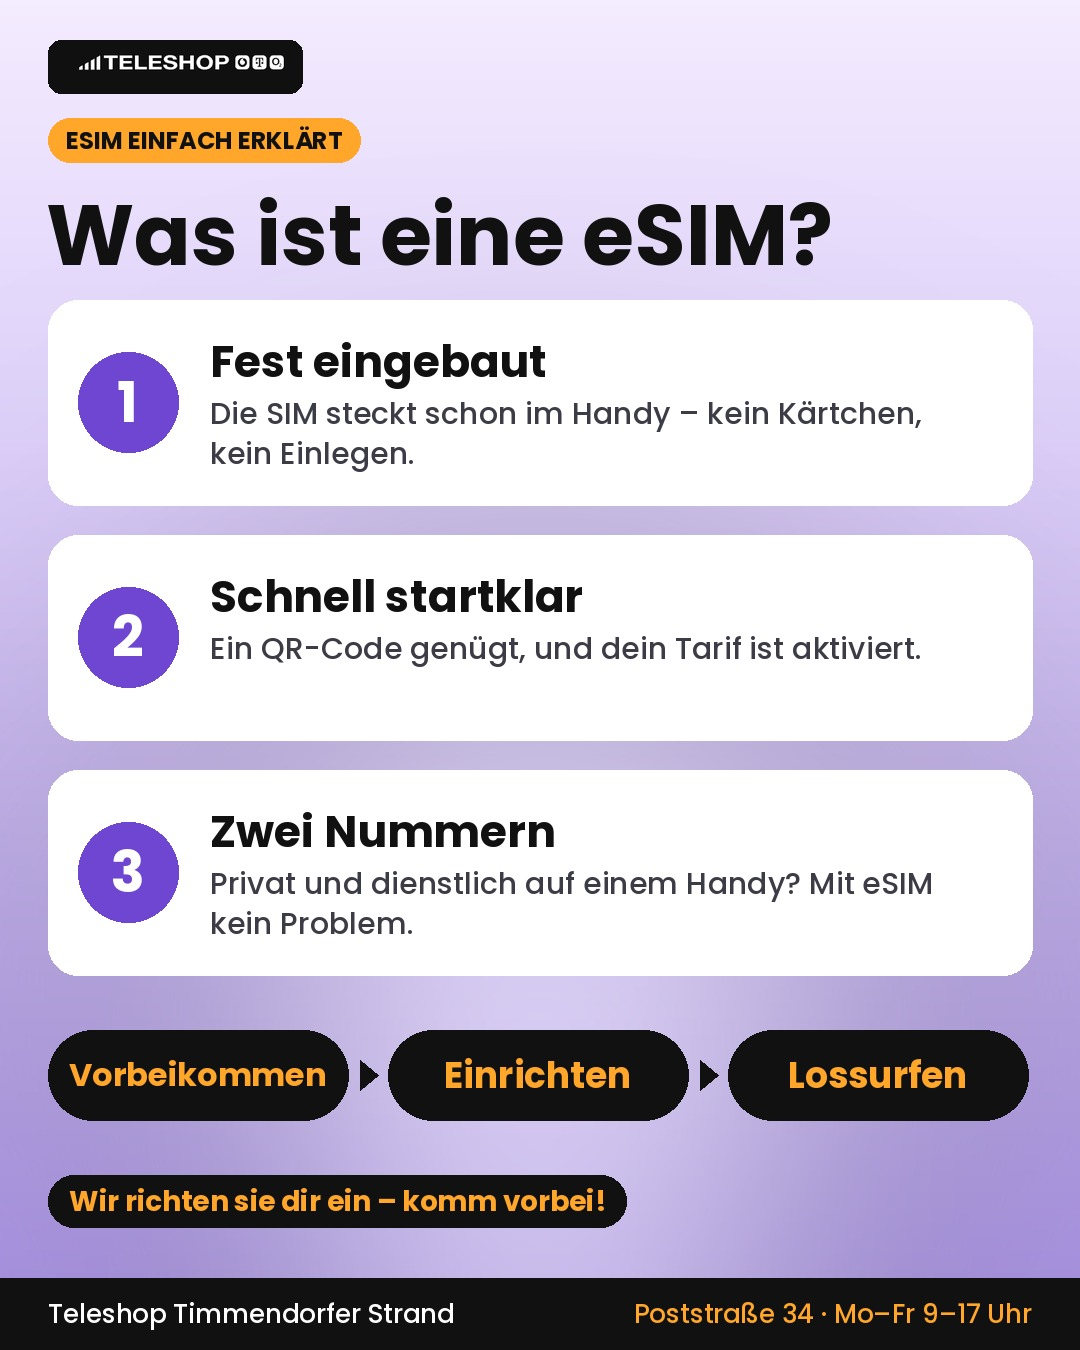
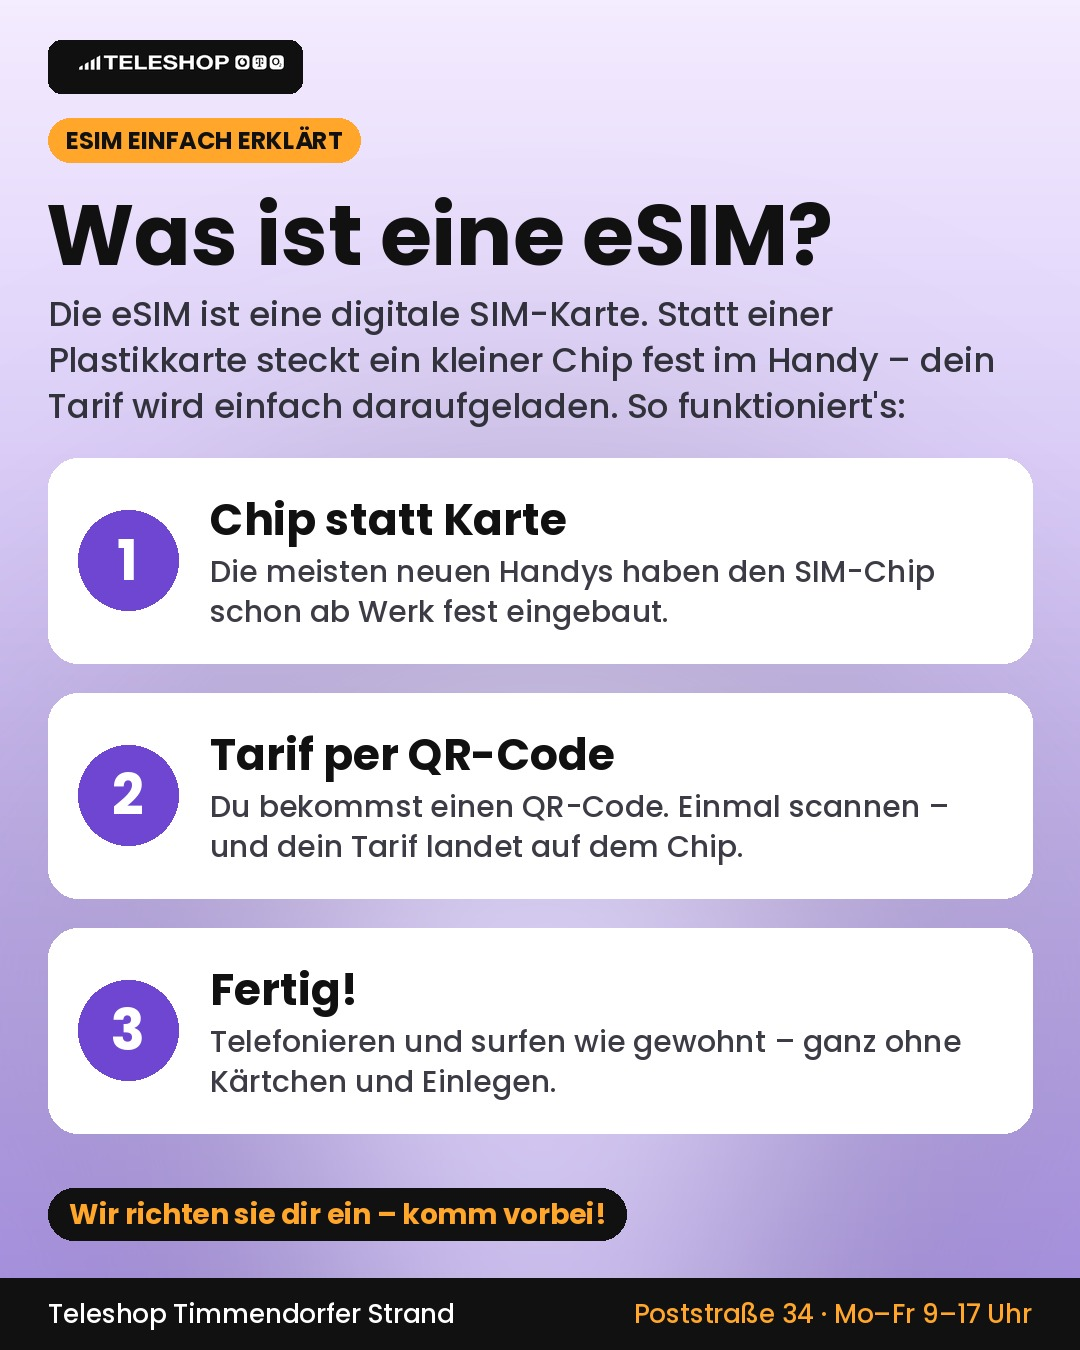
13.11.: eSIM-Slide als echte Erklärung
Claude-Session: https://claude.ai/code/session_014zSknd4WMqVUBF1fzwt85j

diff --git a/scripts/render_tag4.py b/scripts/render_tag4.py
@@ -60,6 +60,11 @@ def slide_einsatz(e):
     pill(d, 48, 118, e["kicker"])
     d.text((46, 176), e["headline"], font=fit(d, e["headline"], "Bold", 84, W - 96, 40), fill=INK)
     y = 300
+    if e.get("sub"):
+        for ln in wrap(d, e["sub"], font("Medium", 34), W - 100):
+            d.text((48, y - 10), ln, font=font("Medium", 34), fill=(50, 50, 60))
+            y += 46
+        y += 20
     for i, (t, txt) in enumerate(e["faelle"]):
         d.rounded_rectangle((48, y, W - 48, y + 205), radius=30, fill=WHITE)
         d.ellipse((78, y + 52, 178, y + 152), fill=col)
@@ -72,6 +77,10 @@ def slide_einsatz(e):
         y += 235
     # Drei Schritte
     y += 25
+    if not e["schritte"]:
+        cta(d, e["cta"], y)
+        rp.footer(ImageDraw.Draw(img))
+        return img.convert("RGB")
     xs = (48, 48 + 340, 48 + 680)
     for i, s in enumerate(e["schritte"]):
         x = xs[i]
